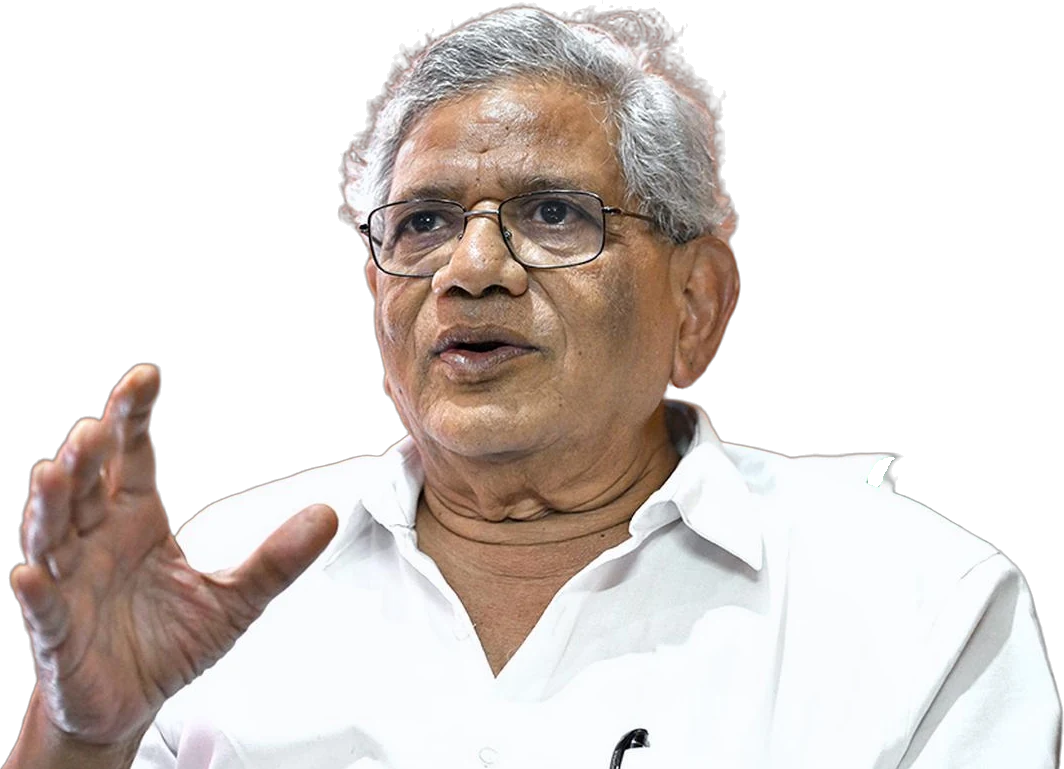
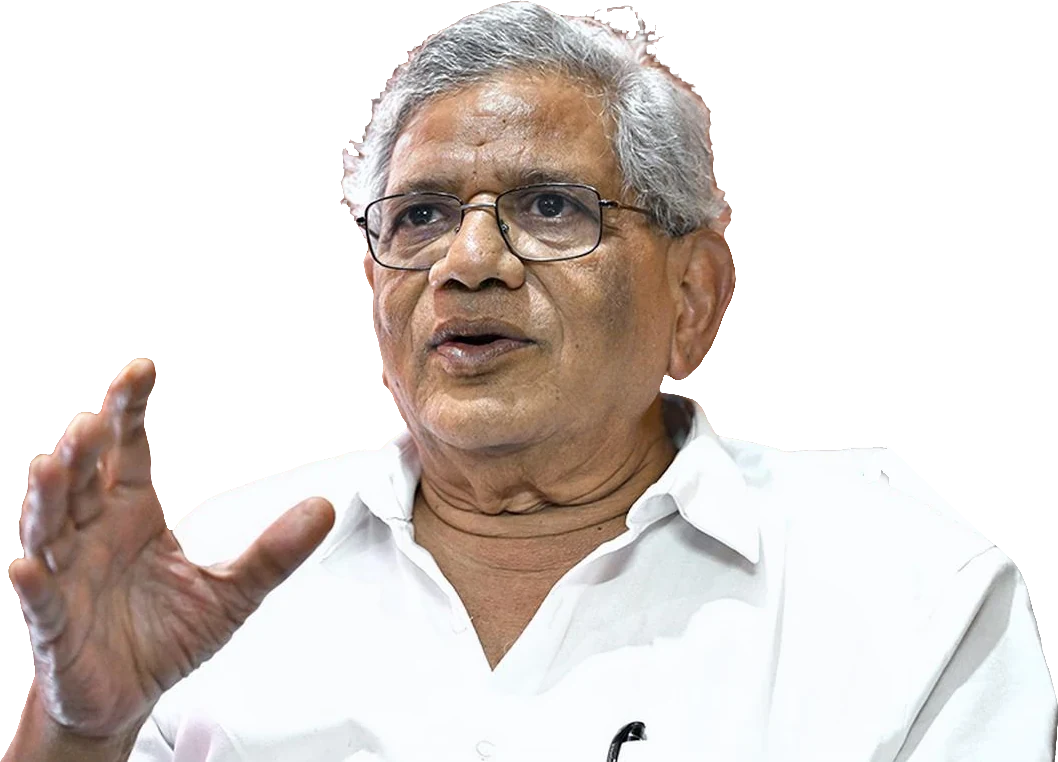
Header portraits: crisp edges, no shadow or gradient
Remove the drop-shadow halo and feathered edge so the cut-out figures
sit directly on the flat red band; re-cut the young portrait so the
shoulder leaves the frame naturally; repair the About shoulder line.

diff --git a/gallery.html b/gallery.html
@@ -38,7 +38,7 @@
         <h1>Five decades in <em>pictures</em></h1>
         <p>From the student movement to Parliament, from Party Congresses to solidarity with peoples across the world. Select a photograph to view it in full.</p>
       </div>
-      <img class="portrait cutout" src="assets/img/portrait-gallery.webp" alt="" width="726" height="800">
+      <img class="portrait cutout" src="assets/img/portrait-gallery.webp" alt="">
     </div>
   </div>
 

diff --git a/assets/css/style.css b/assets/css/style.css
@@ -321,5 +321,5 @@ html, body { overflow-x: clip; }
 /* Background-removed portraits in page headers */
 .page-hero .portrait.cutout {
   mix-blend-mode: normal; width: auto; height: auto; max-height: 360px; max-width: 100%;
-  margin-top: 30px; filter: grayscale(1) contrast(1.08) drop-shadow(0 10px 30px rgba(0,0,0,.35));
+  margin-top: 30px; filter: grayscale(1) contrast(1.08);
 }
